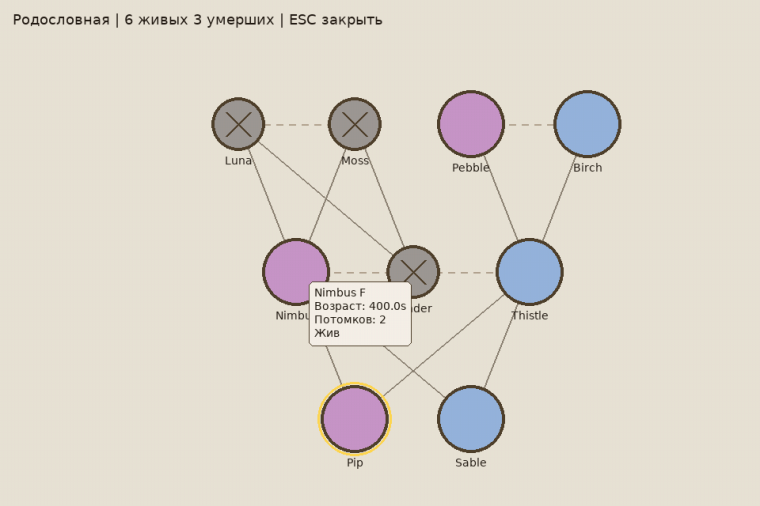
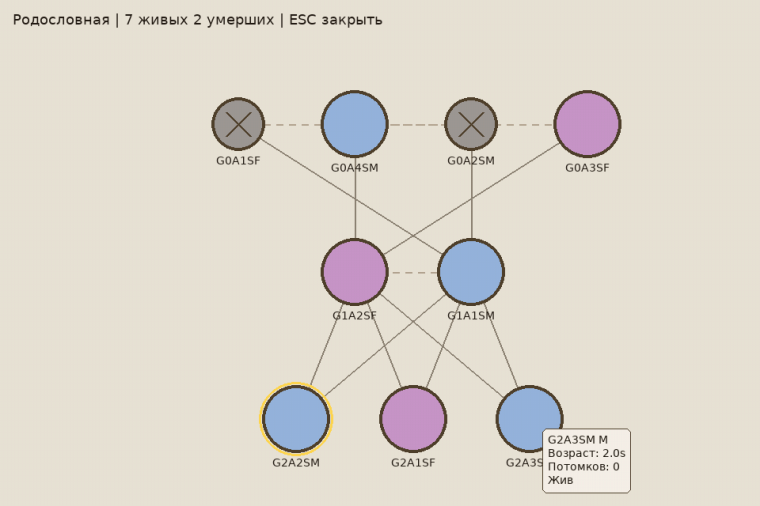
Render the lineage clip from a real colony pedigree.
The promo tree was a hand-built list of display names. It now comes from
ChinchillaAgent births and MortalitySystem deaths, so the labels are the
colony's G{generation}A{index}S{sex} ids.

diff --git a/tools/render_promo_media.py b/tools/render_promo_media.py
@@ -10,7 +10,9 @@ Headless: SDL_VIDEODRIVER=dummy. Requires pygame and pillow
 from __future__ import annotations
 
 import os
+import random
 import sys
+import tempfile
 from pathlib import Path
 
 os.environ.setdefault("SDL_VIDEODRIVER", "dummy")
@@ -141,59 +143,153 @@ def render_tamagotchi() -> None:
     _report(png)
 
 
+def _remember(observer, target, affinity: float) -> None:
+    from agent_knowledge import KnownAgent
+
+    observer.knowledge[target.agent_id] = KnownAgent(
+        agent_id=target.agent_id,
+        name=target.name,
+        sex=target.sex,
+        last_seen_position=target.position,
+        last_seen_time=observer.sim_time,
+        familiarity=0.7,
+        affinity=affinity,
+        relationship_type="acquaintance",
+    )
+
+
+def _mate_and_birth(runner, female, male) -> list:
+    """Drive the same mating and birth path the colony tests use."""
+
+    _remember(female, male, 0.7)
+    _remember(male, female, 0.6)
+    if female.heat_cycle is None:
+        return []
+    female.heat_cycle.phase = "estrus"
+    female.heat_cycle.value = 0.8
+    female.affective_space.axes["stress"] = 0.1
+    male.affective_space.axes["stress"] = 0.1
+    female.energy = 0.9
+    male.energy = 0.9
+    response = male.send_social_offer("mount_display", female)
+    if response is None or not response.accepted:
+        return []
+    # Gestation is 300s in the sim. The reproduction tests shorten the
+    # remaining timer and then let SimulationRunner.run_for call _give_birth.
+    female.gestation_timer = 1.0
+    before = {agent.agent_id for agent in runner.agents}
+    runner.run_for(3.0, dt=1.0)
+    return [agent for agent in runner.agents if agent.agent_id not in before]
+
+
+def _mature(agent) -> None:
+    from config_colony import MATURITY_AGE_S
+
+    agent.age = MATURITY_AGE_S - 1.0
+    agent._age_step(2.0)
+
+
+def simulate_promo_lineage():
+    """Run a short colony so lineage names come from ChinchillaAgent.
+
+    Founders are constructed without a display name, so ``_next_generated_name``
+    assigns ``G{generation}A{index}S{sex}``. Births go through
+    ``send_social_offer`` and ``SimulationRunner.run_for``. Two founders then
+    die through ``MortalitySystem.update`` (old age, lived steps at the colony
+    lifespan) and ``SimulationRunner``'s death registration. No display name
+    is passed in.
+    """
+
+    from colony_agent import ChinchillaAgent
+    from colony_gui.config import is_formatted_name
+    from config_colony import COLONY_MAX_LIFESPAN_STEPS
+    from simulation_runner import SimulationRunner
+
+    ChinchillaAgent._generation_name_counters.clear()
+    journal_dir = Path(tempfile.mkdtemp(prefix="nowa-lineage-"))
+    runner = SimulationRunner(death_journal_path=journal_dir / "deaths.jsonl")
+    rng = random.Random(7)
+    founders = []
+    for sex in ("F", "M", "F", "M"):
+        agent = ChinchillaAgent(
+            sex=sex,
+            is_mature=True,
+            position="floor",
+            rng=random.Random(rng.randrange(1 << 30)),
+        )
+        runner.add_agent(agent)
+        founders.append(agent)
+
+    for female, male in ((founders[0], founders[1]), (founders[2], founders[3])):
+        if not _mate_and_birth(runner, female, male):
+            raise RuntimeError("founder pair did not give birth through the colony runner")
+
+    generation_one = [agent for agent in runner.agents if agent.generation == 1]
+    females = [agent for agent in generation_one if agent.sex == "F"]
+    males = [agent for agent in generation_one if agent.sex == "M"]
+    pair = None
+    for female in females:
+        for male in males:
+            if set(female.parents).isdisjoint(set(male.parents)):
+                pair = (female, male)
+                break
+        if pair is not None:
+            break
+    if pair is None:
+        raise RuntimeError("seed 7 did not produce a cross-family breeding pair")
+    _mature(pair[0])
+    _mature(pair[1])
+    if not _mate_and_birth(runner, pair[0], pair[1]):
+        raise RuntimeError("second generation was not born through the colony runner")
+
+    for agent in founders[:2]:
+        agent.mortality_system.update(
+            energy=0.5,
+            wakefulness=0.2,
+            lived_steps=COLONY_MAX_LIFESPAN_STEPS,
+            cortisol_mean=0.1,
+            biological_age_s=agent.age,
+            dt_s=1.0,
+        )
+    for agent_id in runner.swarm.check_mortality():
+        runner._handle_agent_death(agent_id)
+
+    names = [agent.name for agent in runner.agents]
+    names.extend(memorial.name for memorial in runner.death_registry.get_all_memorials())
+    if not names or not all(is_formatted_name(name) for name in names):
+        raise RuntimeError(f"lineage names are not colony ids: {names}")
+    generations = {agent.generation for agent in runner.agents}
+    generations.update(memorial.generation for memorial in runner.death_registry.get_all_memorials())
+    if generations != {0, 1, 2}:
+        raise RuntimeError(f"expected three generations, got {sorted(generations)}")
+    if not runner.death_registry.get_all_memorials():
+        raise RuntimeError("expected at least one real death in the pedigree")
+    print("lineage agents:", ", ".join(names))
+    return runner
+
+
 def render_lineage() -> None:
     import pygame
 
     if str(COLONY_SRC) not in sys.path:
         sys.path.insert(0, str(COLONY_SRC))
     from colony_gui.lineage_overlay import LineageOverlay
-    from death_registry import LineageNode
 
-    def node(agent_id, name, sex, generation, parents, alive, offspring, index):
-        return LineageNode(
-            agent_id=agent_id,
-            display_name=name,
-            sex=sex,
-            generation=generation,
-            parents=parents,
-            own_offspring=list(offspring),
-            is_alive=alive,
-            cause_of_death="" if alive else "old_age",
-            age=400.0 if alive else 1800.0,
-            total_offspring=len(offspring),
-            generation_index=index,
-        )
-
-    nodes = [
-        node("g0a", "Luna", "F", 0, (None, None), False, ["g1a", "g1b"], 1),
-        node("g0b", "Moss", "M", 0, (None, None), False, ["g1a", "g1b"], 2),
-        node("g0c", "Pebble", "F", 0, (None, None), True, ["g1c"], 3),
-        node("g0d", "Birch", "M", 0, (None, None), True, ["g1c"], 4),
-        node("g1a", "Nimbus", "F", 1, ("g0a", "g0b"), True, ["g2a", "g2b"], 1),
-        node("g1b", "Cinder", "M", 1, ("g0a", "g0b"), False, [], 2),
-        node("g1c", "Thistle", "M", 1, ("g0c", "g0d"), True, ["g2a", "g2b"], 3),
-        node("g2a", "Pip", "F", 2, ("g1a", "g1c"), True, [], 1),
-        node("g2b", "Sable", "M", 2, ("g1a", "g1c"), True, [], 2),
-    ]
-
-    class _Registry:
-        birth_registry = None
-
-        def get_lineage_nodes(self, living_agents, generation_index_map):
-            return list(nodes)
-
+    runner = simulate_promo_lineage()
     pygame.init()
     pygame.font.init()
     screen = pygame.display.set_mode((960, 640))
     font = pygame.font.SysFont("DejaVu Sans, Liberation Sans, Arial", 18)
     font_small = pygame.font.SysFont("DejaVu Sans, Liberation Sans, Arial", 14)
-    overlay = LineageOverlay(_Registry(), allow_nonadjacent_parents=False)
+    overlay = LineageOverlay(runner.death_registry, allow_nonadjacent_parents=False)
     overlay._visible = True
-    overlay.rebuild([], {})
-    overlay._selected_id = "g2a"
-    overlay._hovered_id = "g1a"
+    overlay.rebuild(list(runner.agents), runner._build_generation_index_map())
+    focus = [node.agent_id for node in overlay._nodes]
+    if not focus:
+        raise RuntimeError("lineage overlay produced no nodes")
+    overlay._selected_id = focus[0]
+    overlay._hovered_id = focus[min(1, len(focus) - 1)]
 
-    focus = ["g0a", "g1a", "g2a", "g1c", "g2b", "g0d", "g1b", "g2a"]
     frames = []
     fitted_offset = None
     for step in range(16):
